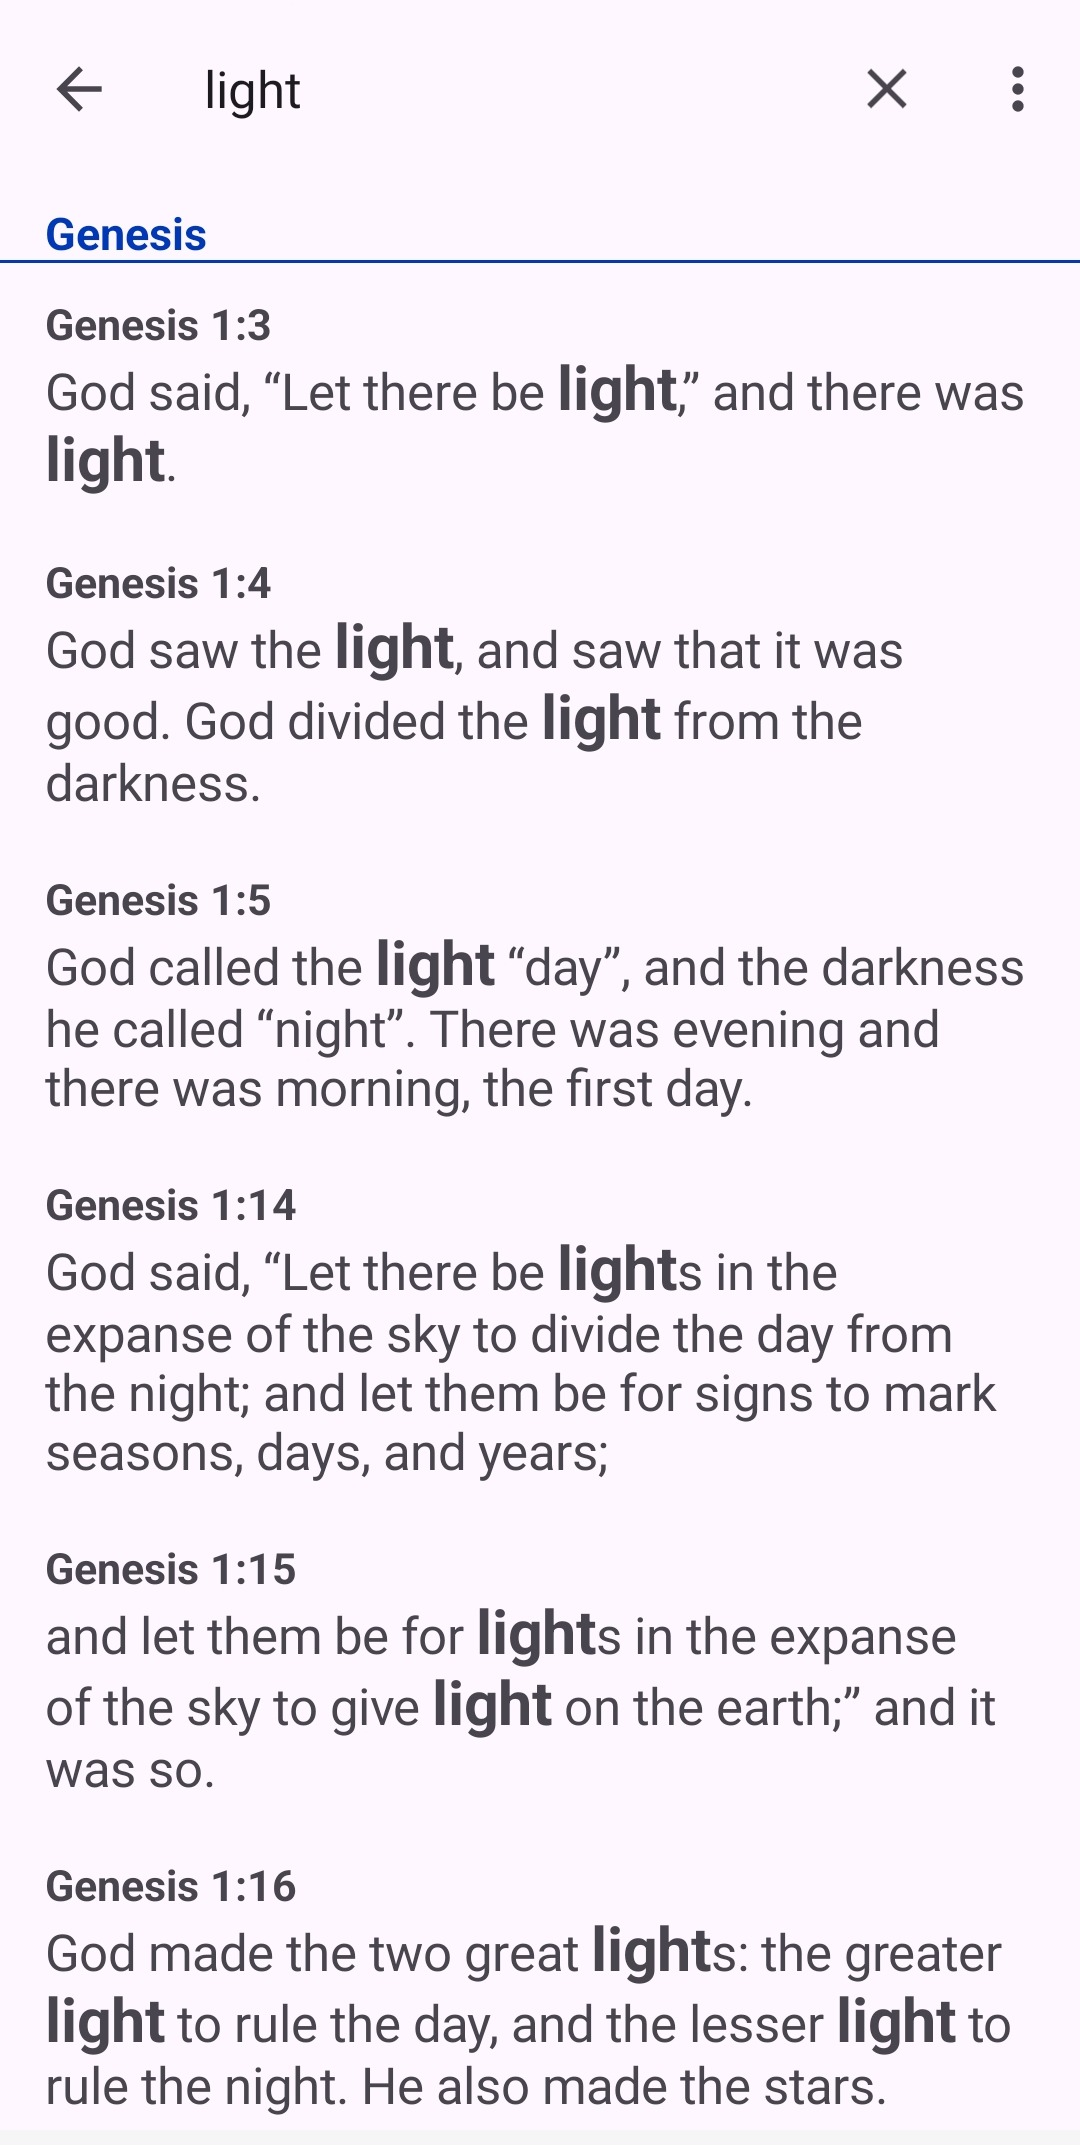
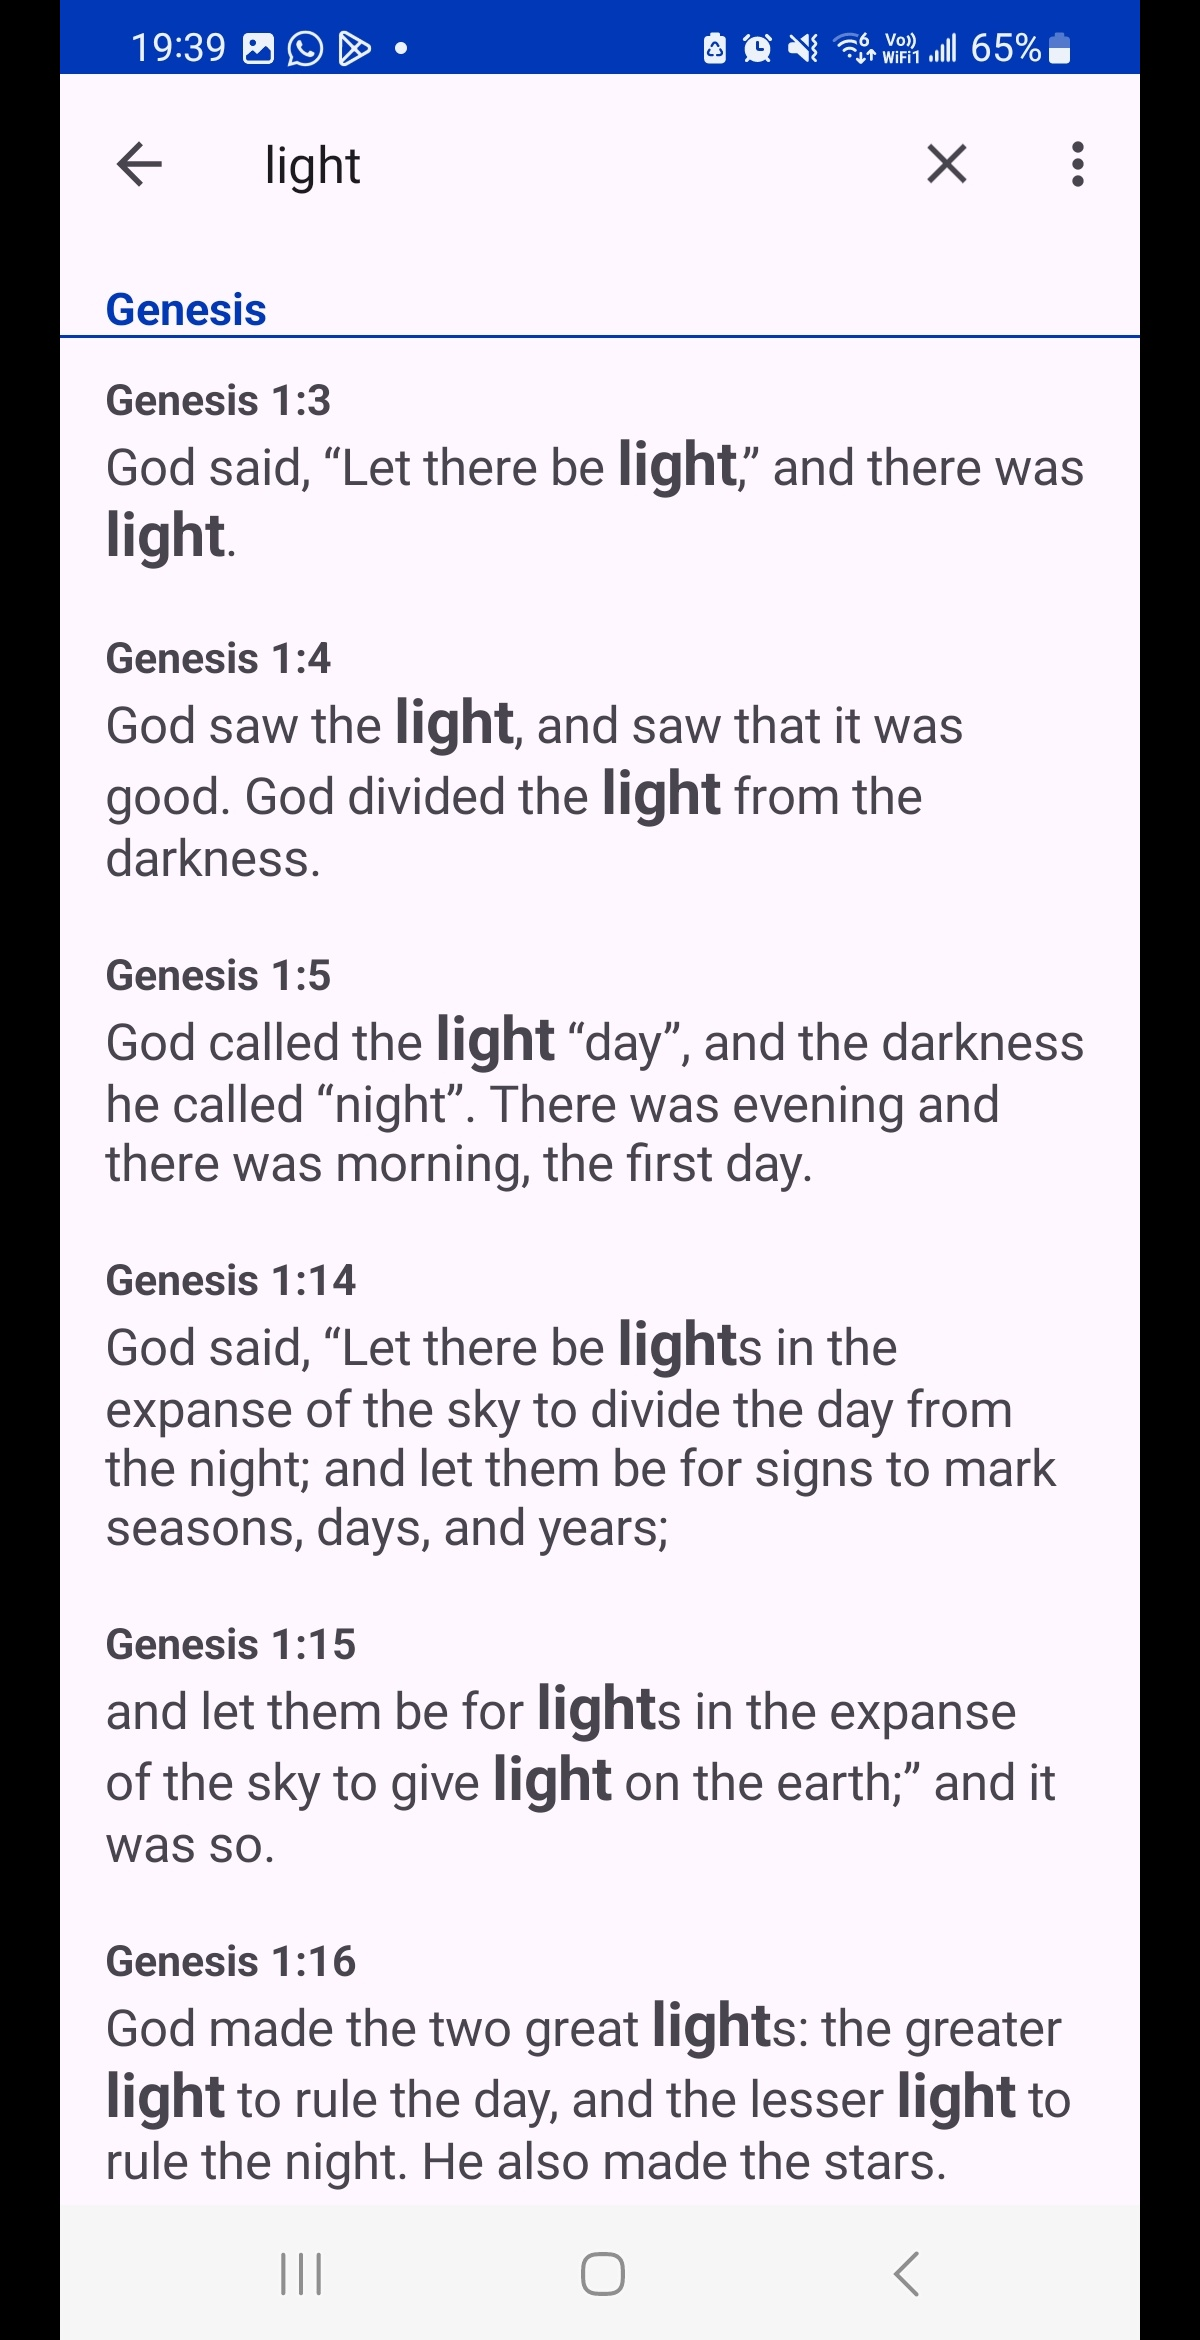
Pad screenshots with black bars instead of cropping and add a store asset check

Changed region(s): [[0.0, 0.0, 1.0, 1.0], [0.8861, 0.0625, 0.9167, 0.0937], [0.7639, 0.0625, 0.7944, 0.0937]]

diff --git a/.github/scripts/check-store-assets.py b/.github/scripts/check-store-assets.py
@@ -1,0 +1,93 @@
+#!/usr/bin/env python3
+"""Validate the Fastlane store listing against Google Play and F-Droid limits.
+
+Usage: check-store-assets.py [--fix] [--root fastlane/metadata/android]
+
+--fix pads screenshots that are too tall (Google Play allows at most 2:1) with
+black bars on the sides, in place, so the original content is not cropped.
+Needs Pillow (pip install pillow).
+"""
+import argparse
+import math
+import re
+import sys
+from pathlib import Path
+
+from PIL import Image
+
+MAX_RATIO = 2.0
+PAD_RATIO = 1.95  # a little under the limit so rounding never tips it over
+LIMITS = {"title.txt": 30, "short_description.txt": 80, "full_description.txt": 4000}
+
+
+def pad_screenshot(path: Path) -> None:
+    im = Image.open(path).convert("RGB")
+    w, h = im.size
+    new_w = math.ceil(h / PAD_RATIO)
+    canvas = Image.new("RGB", (new_w, h), (0, 0, 0))
+    canvas.paste(im, ((new_w - w) // 2, 0))
+    canvas.save(path, quality=95)
+
+
+def check_locale(loc: Path, fix: bool) -> list[str]:
+    errors = []
+    for name, limit in LIMITS.items():
+        f = loc / name
+        if not f.is_file():
+            errors.append(f"{f}: missing")
+            continue
+        text = f.read_text(encoding="utf-8")
+        if len(text.strip()) > limit:
+            errors.append(f"{f}: {len(text.strip())} characters, limit {limit}")
+        if name == "full_description.txt" and re.search(r"</?(ul|ol|li|p|div)\b", text):
+            errors.append(f"{f}: Google Play does not render HTML lists, use '• ' lines")
+    for f in sorted((loc / "changelogs").glob("*.txt")):
+        if len(f.read_text(encoding="utf-8").strip()) > 500:
+            errors.append(f"{f}: over 500 characters")
+    images = loc / "images"
+    icon = images / "icon.png"
+    if not icon.is_file():
+        errors.append(f"{icon}: missing")
+    else:
+        if Image.open(icon).size != (512, 512):
+            errors.append(f"{icon}: must be 512x512")
+        if icon.stat().st_size > 1024 * 1024:
+            errors.append(f"{icon}: over 1 MB")
+    feature = images / "featureGraphic.png"
+    if not feature.is_file():
+        errors.append(f"{feature}: missing")
+    elif Image.open(feature).size != (1024, 500):
+        errors.append(f"{feature}: must be 1024x500")
+    shots = sorted(p for p in (images / "phoneScreenshots").glob("*") if p.suffix.lower() in (".jpg", ".jpeg", ".png"))
+    if not 2 <= len(shots) <= 8:
+        errors.append(f"{images / 'phoneScreenshots'}: {len(shots)} screenshots, Google Play needs 2 to 8")
+    for p in shots:
+        w, h = Image.open(p).size
+        if max(w, h) > 2 * min(w, h):
+            if fix:
+                pad_screenshot(p)
+                print(f"padded {p}")
+                w, h = Image.open(p).size
+            else:
+                errors.append(f"{p}: {w}x{h} is taller than 2:1, run with --fix")
+                continue
+        if not 320 <= min(w, h) or max(w, h) > 3840:
+            errors.append(f"{p}: {w}x{h}, sides must be 320 to 3840 pixels")
+    return errors
+
+
+def main() -> int:
+    ap = argparse.ArgumentParser(description=__doc__, formatter_class=argparse.RawDescriptionHelpFormatter)
+    ap.add_argument("--fix", action="store_true")
+    ap.add_argument("--root", default="fastlane/metadata/android")
+    args = ap.parse_args()
+    locales = [p for p in Path(args.root).iterdir() if p.is_dir()]
+    errors = [e for loc in locales for e in check_locale(loc, args.fix)]
+    for e in errors:
+        print(f"::error::{e}")
+    print("store assets OK" if not errors else f"{len(errors)} problem(s)")
+    return 1 if errors else 0
+
+
+if __name__ == "__main__":
+    sys.exit(main())

diff --git a/docs/RELEASING.md b/docs/RELEASING.md
@@ -83,7 +83,7 @@ The same `fastlane/metadata/android/en-US/` listing feeds F-Droid, the [website]
 
 - `title.txt` up to 30 characters, `short_description.txt` up to 80, `full_description.txt` up to 4000 and plain text (bullets are `• ` lines, because Play does not render `<ul>`).
 - `changelogs/<versionCode>.txt` up to 500 characters; `changelogs/default.txt` is the fallback.
-- `images/icon.png` 512x512, `images/featureGraphic.png` 1024x500, and 2 to 8 `images/phoneScreenshots/` whose height is at most twice their width.
+- `images/icon.png` 512x512, `images/featureGraphic.png` 1024x500, and 2 to 8 `images/phoneScreenshots/` whose height is at most twice their width (typical 20:9 phone screenshots need padding, see below).
 
 Setup: create the app in Play Console, link a service account with release permissions (Setup > API access) and export its JSON key as `SUPPLY_JSON_KEY`. Google Play needs an Android App Bundle signed with the upload key, which is the release keystore; CI currently builds only APKs, so build one with `./gradlew bundleRelease -PappVersion=X.Y.Z` first.
 
@@ -93,5 +93,7 @@ bundle exec fastlane validate                  # check the listing without publi
 bundle exec fastlane metadata                  # upload text and images
 bundle exec fastlane internal aab:app/build/outputs/bundle/release/app-release.aab
 ```
+
+Run `python3 .github/scripts/check-store-assets.py` (needs `pip install pillow`) to check all of these limits; the `Website` workflow runs it on pull requests. Add new screenshots as-is and run it with `--fix`, which pads any screenshot taller than 2:1 with black side bars instead of cropping it.
 
 `internal` uploads a draft to the internal testing track, so add testers and roll it out in Play Console.
